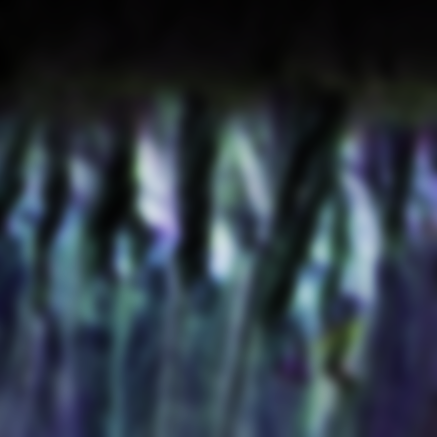
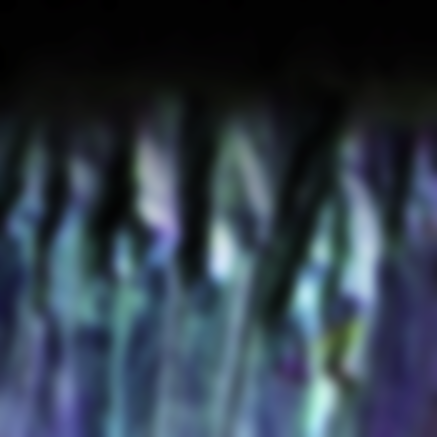
More parameter fussing

diff --git a/src/order_particles.h b/src/order_particles.h
@@ -32,18 +32,17 @@ public:
 
 private:
     static const unsigned numParticles = 50;
-    static const float relativeSize = 0.35;
+    static const float relativeSize = 0.42;
     static const float intensity = 0.08;
     static const float brightness = 1.65;
-    static const float stepSize = 1.0 / 500;
-    static const float seedRadius = 2.0;
-    static const float interactionSize = 0.7;
-    static const float colorRate = 0.03;
-    static const float vibrationScale = 0.007;
+    static const float stepSize = 1.0 / 300;
+    static const float seedRadius = 1.5;
+    static const float interactionSize = 0.6;
+    static const float colorRate = 0.02;
     static const float lightSpinRate = 60.0;
     static const float breatheRate = 30.0;
-    static const float breatheAmount = 0.08;
-    static const float angleGainLimit = 0.002;
+    static const float breatheAmount = 0.12;
+    static const float angleGainLimit = 0.003;
     static const float angleGainRate = 0.3;
     static const float angleGainSlope = 40.0;
 
@@ -53,7 +52,6 @@ private:
     // Calculated per-frame
     Vec3 lightVec;
     float angleGain;
-    float vibration;
     float bias;
 
     void runStep(const FrameInfo &f);
@@ -171,7 +169,6 @@ inline void OrderParticles::runStep(const FrameInfo &f)
 inline void OrderParticles::debug(const DebugInfo &di)
 {
     fprintf(stderr, "\t[order-particles] symmetry = %d\n", symmetry);
-    fprintf(stderr, "\t[order-particles] vibration = %f\n", vibration);
     fprintf(stderr, "\t[order-particles] colorCycle = %f\n", colorCycle);
 }
 
@@ -183,8 +180,8 @@ inline void OrderParticles::shader(Vec3& rgb, const PixelInfo& p) const
     Vec3 gradient = sampleIntensityGradient(p.point);
     float gradientMagnitude = len(gradient);
     Vec3 normal = gradientMagnitude ? (gradient / gradientMagnitude) : Vec3(0, 0, 0);
-    float lambert = 0.55f * std::max(0.0f, dot(normal, lightVec));
-    float ambient = 0.6f;
+    float lambert = 0.4f * std::max(0.0f, dot(normal, lightVec));
+    float ambient = 1.0f;
 
     rgb = (brightness * (ambient + lambert)) * 
         palette.sample(0.5 + 0.5 * sinf(colorCycle), bias + intensity);

diff --git a/src/ants.h b/src/ants.h
@@ -27,6 +27,7 @@ public:
     float colorParam;
 
 private:
+    static const unsigned numAnts = 1;
     static const float stepRate = 200;
     static const float noiseMax = 1.5;
     static const float noiseFadeRate = 0.007;
@@ -35,7 +36,7 @@ private:
     static const float colorParamRate = 0.29;
     static const float spiralRate = 0.08;
     static const float pushRadius = 0.3;
-    static const float pushAmount = 0.001;
+    static const float pushAmount = 0.0006;
     static const float sinkRate = 0.0001;
 
     struct Ant {
@@ -45,7 +46,7 @@ private:
     };
 
     DarkFollowers darkness;
-    Ant ant;
+    Ant ants[numAnts];
     float antTimeDeltaRemainder;
     float timeDeltaRemainder;
     std::vector<unsigned> state;
@@ -93,8 +94,10 @@ inline void Ants::reseed(unsigned seed)
 
     PRNG prng;
     prng.seed(seed);
-    ant.reseed(prng);
     darkness.reseed(prng.uniform32());
+    for (unsigned i = 0; i < numAnts; i++) {
+        ants[i].reseed(prng);
+    }
 
     colorParam = prng.uniform(0, M_PI * 2);
 }
@@ -128,7 +131,9 @@ inline void Ants::beginFrame(const FrameInfo& f)
     antTimeDeltaRemainder = t - steps / antStepRate;
     antStepRate += steps * antStepRateDelta;
     while (steps > 0) {
-        ant.update(*this);
+        for (unsigned i = 0; i < numAnts; i++) {
+            ants[i].update(*this);
+        }
         steps--;
     }
 
@@ -159,7 +164,7 @@ inline void Ants::filterColor(int x, int y)
 
 inline Vec3 Ants::targetColorForState(unsigned st)
 {
-    static float brightness[] = { 0, 3.0, 0.6 };
+    static float brightness[] = { 0, 2.5, 0.75 };
     float r = 0.65 / (1 + colorParam * spiralRate);
     float t = colorParam;
     float br = st < 3 ? brightness[st] : 0;
@@ -222,6 +227,6 @@ inline void Ants::runStep(const FrameInfo &f)
         }
     }
 
-    // Sink toward the center
+    // Sink toward the middle
     darkness.snap(Vec3(0,0,0), sinkRate);
 }

diff --git a/src/narrator_script.cpp b/src/narrator_script.cpp
@@ -104,13 +104,13 @@ int Narrator::script(int st, PRNG &prng)
             // Smooth out overall brightness jitter with the "Brightness" object.
 
             orderParticles.reseed(prng.uniform32());
-            orderParticles.symmetry = 16;
-            orderParticlesBr.set(0.18);
+            orderParticles.symmetry = 10;
+            orderParticlesBr.set(0.24);
             crossfade(&orderParticlesBr, 15);
 
             // Run until we have square grid symmetry
             while (orderParticles.symmetry > 4) {
-                delay(prng.uniform(2, 20));
+                delay(prng.uniform(3, 20));
                 orderParticles.symmetry--;
             }
             delay(prng.uniform(10, 25));
@@ -144,8 +144,7 @@ int Narrator::script(int st, PRNG &prng)
             partnerDance.damping = 0.0045;
             partnerDance.dampingRate = 0;
 
-            crossfade(&partnerDance, prng.uniform(5, 15));
-            delay(prng.uniform(2, 10));
+            crossfade(&partnerDance, prng.uniform(10, 15));
 
             // Normal speed
             partnerDance.targetGain = 0.00009;

diff --git a/src/dark_followers.h b/src/dark_followers.h
@@ -26,8 +26,9 @@ public:
 
 private:
     static const unsigned numParticles = 400;
-    static const float seedRadius = 3.5;
+    static const float seedRadius = 4.0;
     static const float radius = 0.2;
+    static const float intensity = 6.0;
 };
 
 
@@ -51,7 +52,7 @@ inline void DarkFollowers::reseed(unsigned seed)
     for (unsigned i = 0; i < appearance.size(); i++) {
         Vec2 p = prng.ringVector(1e-4, seedRadius);
         appearance[i].point = Vec3(p[0], 0, p[1]);
-        appearance[i].intensity = 1.0;
+        appearance[i].intensity = intensity;
         appearance[i].radius = radius;
         appearance[i].color = Vec3(-1, -1, -1);
     }
